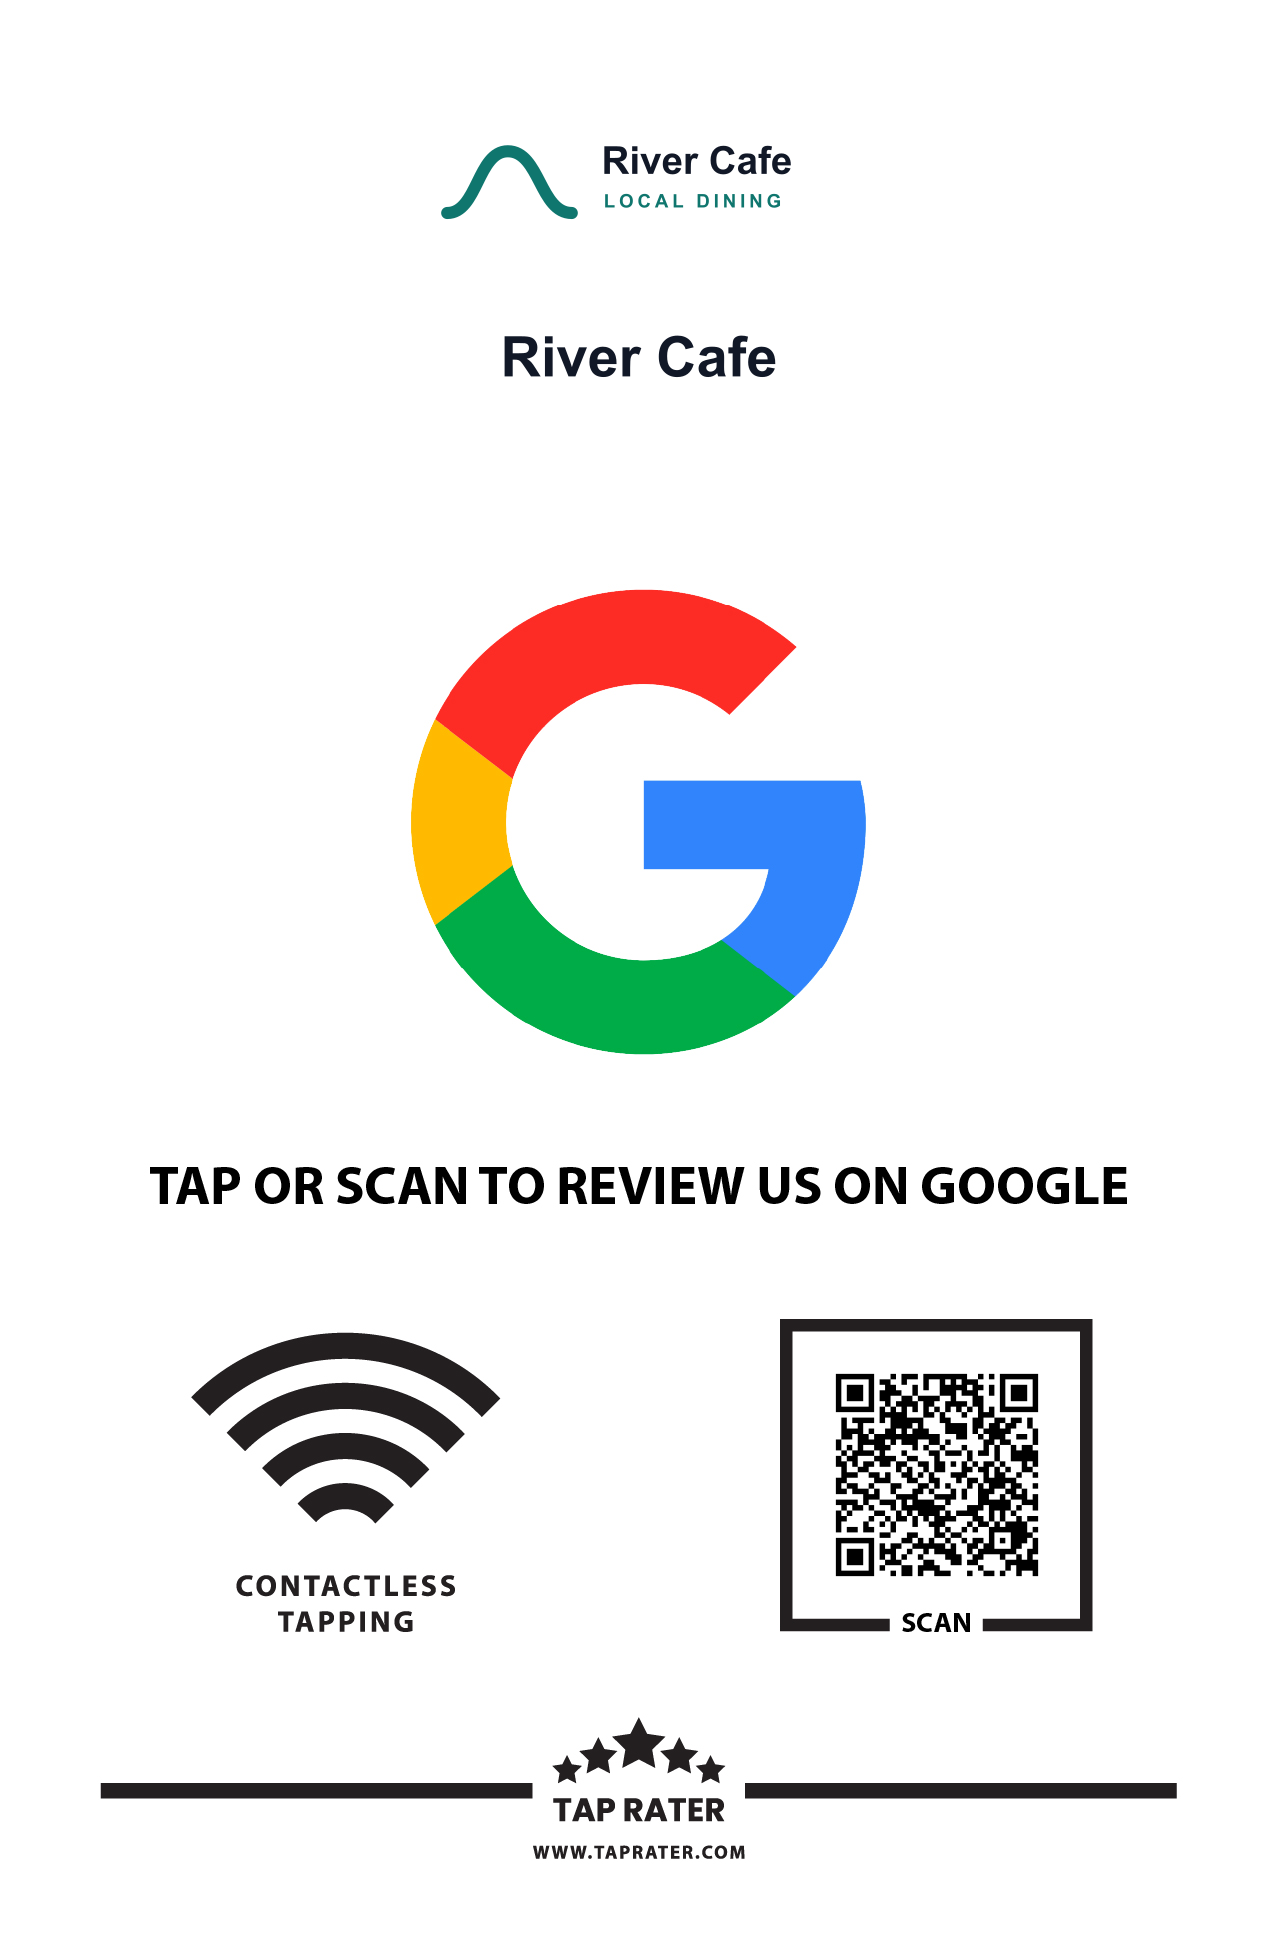
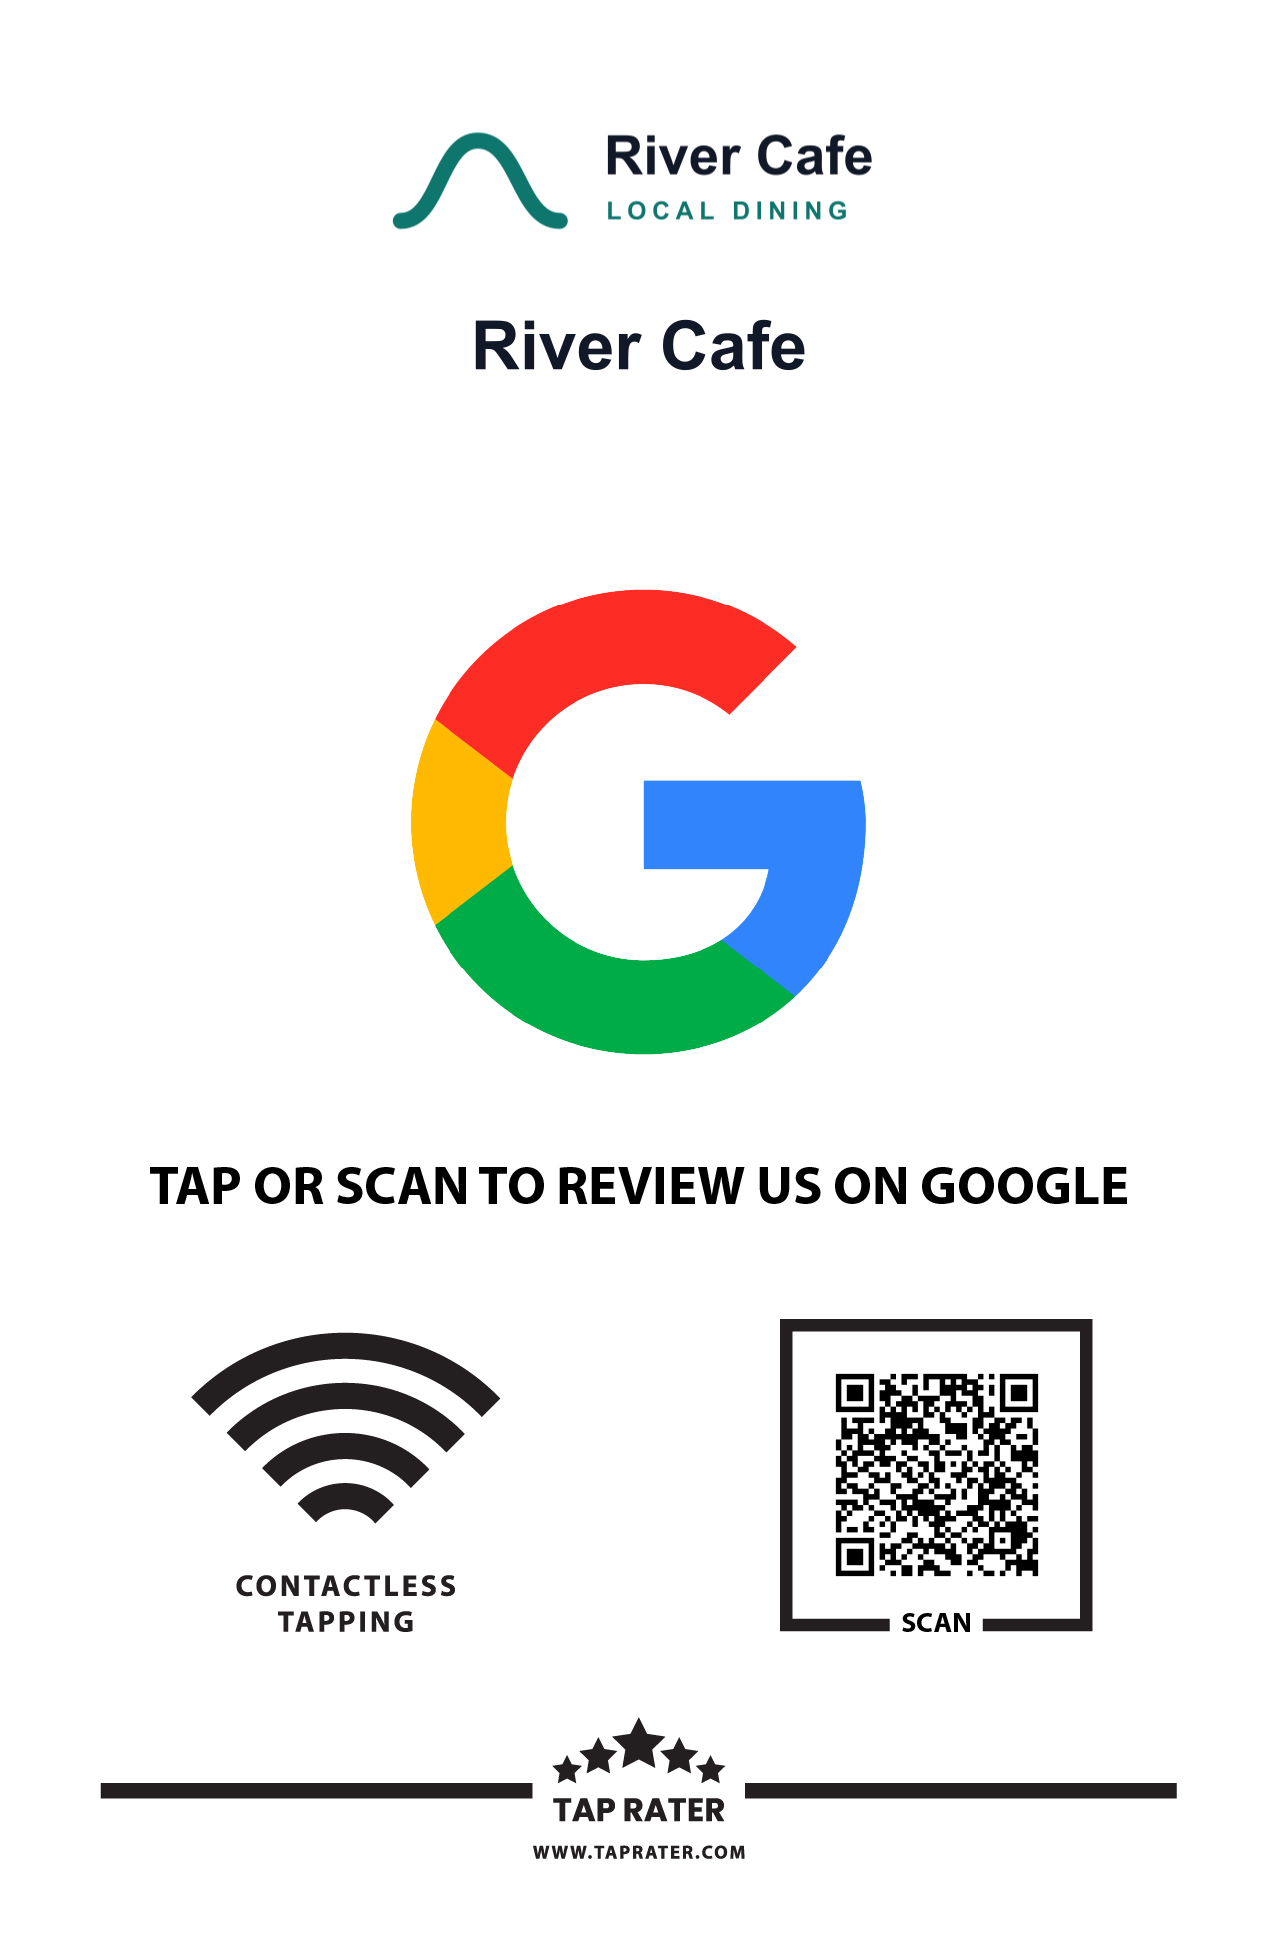
Increase Google branded customer artwork sizing

Changed region(s): [[0.3662, 0.1539, 0.6408, 0.2155], [0.4577, 0.0616, 0.7019, 0.1231], [0.3052, 0.0616, 0.4577, 0.1231]]

diff --git a/tests/unit/production-artwork.test.ts b/tests/unit/production-artwork.test.ts
@@ -100,7 +100,7 @@ describe("production artwork", () => {
 
     expect(template).toMatchObject({
       id: "taprater-branded-stand-front",
-      version: "2026-08-27.2",
+      version: "2026-08-27.3",
       format: "svg",
       widthPx: 1278,
       heightPx: 1949,
@@ -118,11 +118,11 @@ describe("production artwork", () => {
       widthPx: brandedStandComposition.widthPx,
       heightPx: brandedStandComposition.heightPx,
       dpi: brandedStandComposition.dpi,
-      logoRegion: { x: 391, y: 113, width: 496, height: 139 },
-      businessNameRegion: { x: 333, y: 313, width: 612, height: 95 },
+      logoRegion: { x: 335, y: 96, width: 610, height: 170 },
+      businessNameRegion: { x: 286, y: 292, width: 706, height: 116 },
       qrRegion: { x: 814, y: 1352, width: 246, height: 246 }
     });
-    expect(regionToPixels(brandedStandComposition.logoRegion)).toMatchObject({ x: 391, y: 113, width: 496, height: 139 });
+    expect(regionToPixels(brandedStandComposition.logoRegion)).toMatchObject({ x: 335, y: 96, width: 610, height: 170 });
   });
 
   it("generates self-contained SVG artwork from only template, logo, business name, and QR", async () => {
@@ -139,7 +139,7 @@ describe("production artwork", () => {
       dpi: 300,
       widthIn: 4.26,
       templateId: "taprater-branded-stand-front",
-      templateVersion: "2026-08-27.2",
+      templateVersion: "2026-08-27.3",
       baseTemplateContentHash: "base-template-hash",
       logoContentHash: "logo-hash"
     });
@@ -156,7 +156,7 @@ describe("production artwork", () => {
       productId: "google-review-stand",
       optionId: "branded_qr_direct",
       templateId: "taprater-branded-stand-front",
-      templateVersion: "2026-08-27.2",
+      templateVersion: "2026-08-27.3",
       approvalSnapshotHash: artwork?.approvalSnapshotHash,
       baseTemplateContentHash: "base-template-hash",
       logoContentHash: "logo-hash"

diff --git a/tests/unit/order-emails.test.ts b/tests/unit/order-emails.test.ts
@@ -82,7 +82,7 @@ const paidOrder: OrderRecord = {
           widthIn: 4.26,
           heightIn: 6.4967,
           templateId: "taprater-branded-stand-front",
-          templateVersion: "2026-08-27.2",
+          templateVersion: "2026-08-27.3",
           approvalSnapshotHash: "hash",
           baseTemplateContentHash: "base-template-hash",
           logoContentHash: "logo-hash",
@@ -136,7 +136,7 @@ describe("paid order emails", () => {
     expect(html).toContain("QR value: https://example.com/menu");
     expect(html).toContain("Front template: /api/media/product/products/view-menu/front-template.png");
     expect(html).toContain("Production artwork status: generated");
-    expect(html).toContain("Production template: taprater-branded-stand-front / 2026-08-27.2");
+    expect(html).toContain("Production template: taprater-branded-stand-front / 2026-08-27.3");
     expect(html).toContain("Production artwork: /api/media/product/products/view-menu-stand/production_artwork/order-123/line-2-hash.svg");
     expect(html).toContain("Production readiness: Ready for production review");
   });

diff --git a/src/lib/branded-composition.ts b/src/lib/branded-composition.ts
@@ -21,15 +21,15 @@ export type BrandedCompositionGeometry = {
 
 export const brandedStandComposition: BrandedCompositionGeometry = {
   templateId: "taprater-branded-stand-front",
-  templateVersion: "2026-08-27.2",
+  templateVersion: "2026-08-27.3",
   widthPx: 1278,
   heightPx: 1949,
   dpi: 300,
   widthIn: 4.26,
   heightIn: 6.4967,
   safeMarginPx: 64,
-  logoRegion: { xPercent: 30.5946791862, yPercent: 5.7978450487, widthPercent: 38.8106416275, heightPercent: 7.1328886609 },
-  businessNameRegion: { xPercent: 26.0563380282, yPercent: 16.0595177014, widthPercent: 47.8873239437, heightPercent: 4.87429451 },
+  logoRegion: { xPercent: 26.2128325509, yPercent: 4.9256028738, widthPercent: 47.7308294209, heightPercent: 8.7224217547 },
+  businessNameRegion: { xPercent: 22.3787167449, yPercent: 14.9820420739, widthPercent: 55.2425665102, heightPercent: 5.9517701385 },
   qrRegion: { xPercent: 63.6932707355, yPercent: 69.3689061057, widthPercent: 19.2488262911, heightPercent: 12.6218573628 }
 };
 

diff --git a/src/components/product/product-setup-chooser.tsx b/src/components/product/product-setup-chooser.tsx
@@ -758,7 +758,7 @@ function TemplateProofPreview({
           <span className="rounded-lg border border-dashed border-line bg-white/90 px-3 py-1 text-[9px] font-black uppercase text-muted">Logo zone</span>
         )}
       </div>
-      <p className="absolute overflow-hidden text-center text-[11px] font-black leading-tight text-ink" style={regionStyle(brandedStandComposition.businessNameRegion)}>
+      <p className="absolute overflow-hidden text-center text-[13px] font-black leading-tight text-ink" style={regionStyle(brandedStandComposition.businessNameRegion)}>
         {businessName || "Business name"}
       </p>
       <div className="absolute" style={regionStyle(brandedStandComposition.qrRegion)}>

diff --git a/tests/unit/orders.test.ts b/tests/unit/orders.test.ts
@@ -25,7 +25,7 @@ const generatedProductionArtwork = {
   widthIn: 4.26,
   heightIn: 6.4967,
   templateId: "taprater-branded-stand-front",
-  templateVersion: "2026-08-27.2",
+  templateVersion: "2026-08-27.3",
   approvalSnapshotHash: "hash",
   baseTemplateContentHash: "base-template-hash",
   logoContentHash: "logo-hash",
@@ -182,7 +182,7 @@ describe("orders repository", () => {
     expect(items[0].setup?.productionArtwork).toMatchObject({
       status: "generated",
       templateId: "taprater-branded-stand-front",
-      templateVersion: "2026-08-27.2",
+      templateVersion: "2026-08-27.3",
       baseTemplateContentHash: "base-template-hash",
       logoContentHash: "logo-hash"
     });

diff --git a/src/lib/production-artwork.ts b/src/lib/production-artwork.ts
@@ -231,7 +231,7 @@ export async function composeProductionArtworkDocument(
   const qrSvg = await createQrSvg(qrTargetUrl);
   const qrBody = extractSvgBody(qrSvg);
   const qrViewBox = extractViewBox(qrSvg) ?? "0 0 512 512";
-  const nameFontSize = fitSingleLineFontSize(businessName, template.businessNameRegion.width, 56, 24);
+  const nameFontSize = fitSingleLineFontSize(businessName, template.businessNameRegion.width, 68, 26);
 
   const svg = [
     `<svg xmlns="http://www.w3.org/2000/svg" width="${template.widthPx}" height="${template.heightPx}" viewBox="0 0 ${template.widthPx} ${template.heightPx}" role="img" aria-label="${escapeXml(item.title)} production artwork">`,
